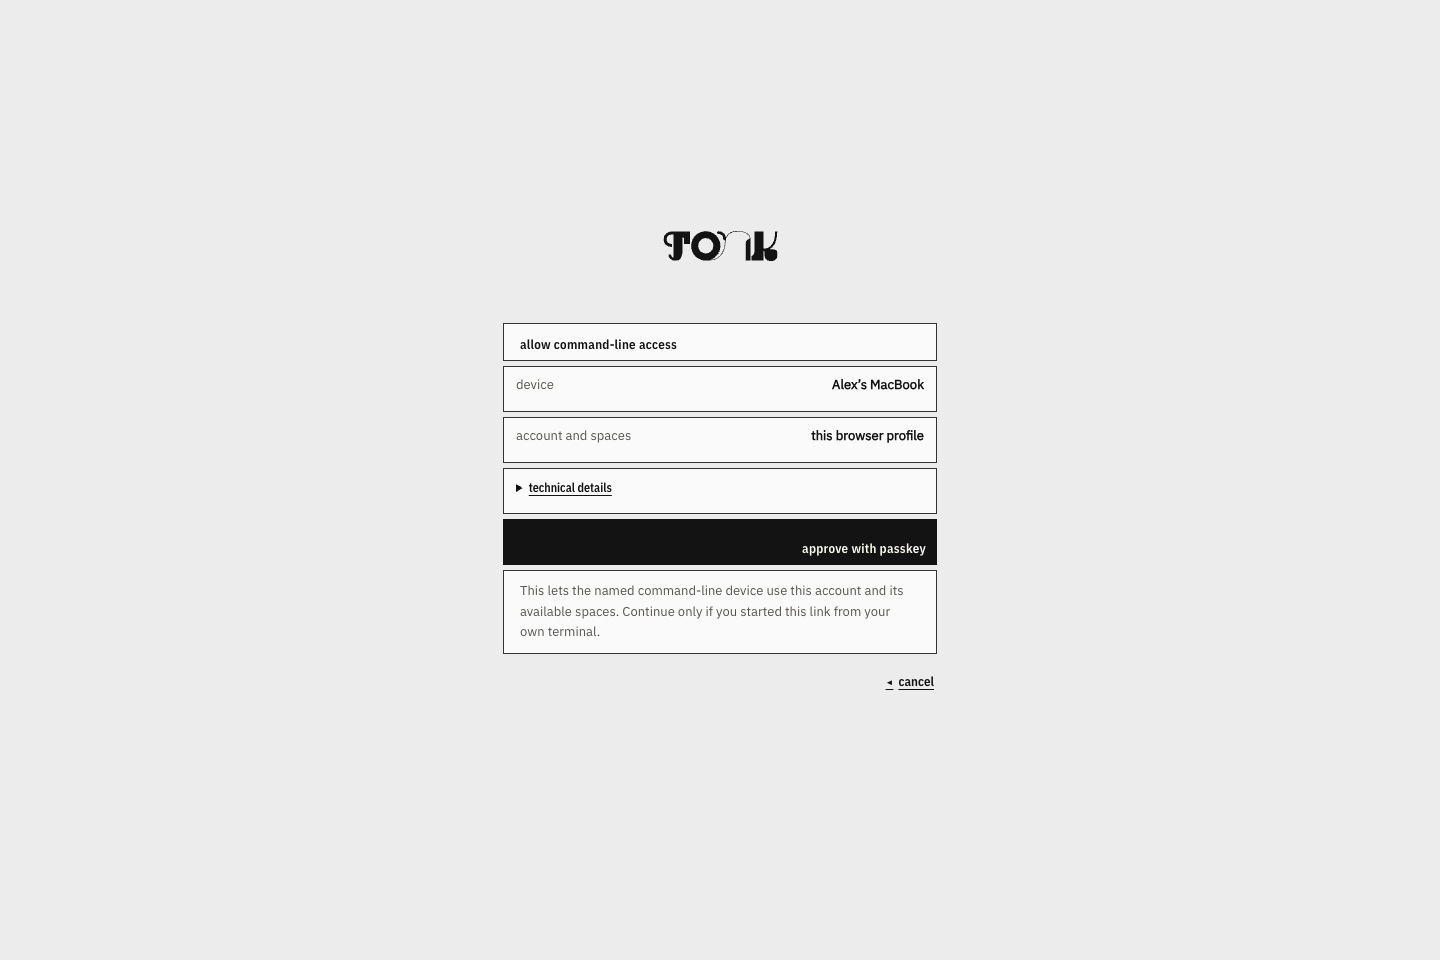
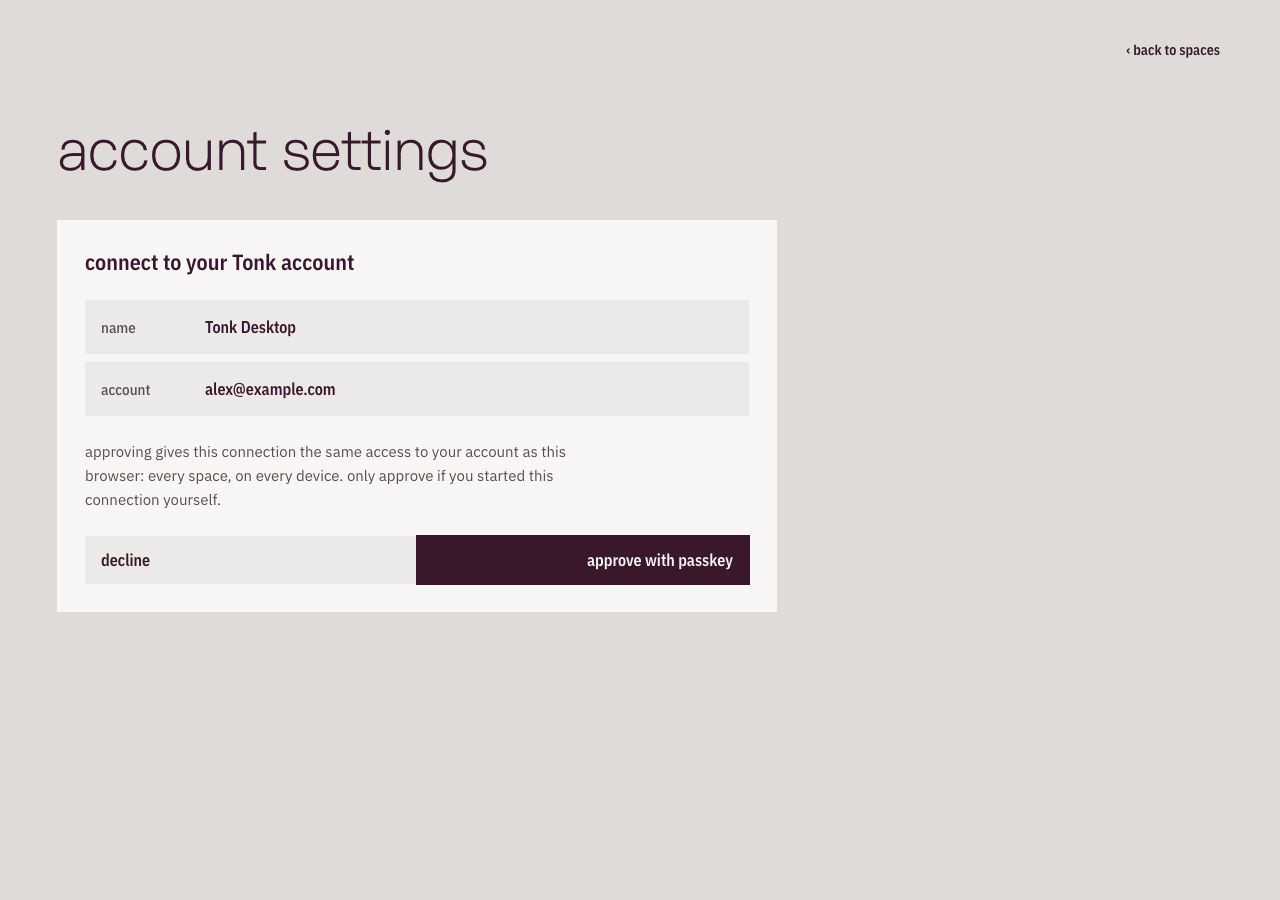
feat(ui): refresh Tonk connection approval (#1070)

diff --git a/rust/tonk-ui/styles.css b/rust/tonk-ui/styles.css
@@ -2205,29 +2205,61 @@ account-settings .link-foot .m-cancel { box-shadow: 0 0 0 1px var(--ring); }
 account-settings [data-ceremony-status] { color: var(--ink); }
 account-settings [data-ceremony-status][hidden] { display: none; }
 
-/* CLI approval follows the Hub's row stack rather than the settings sheet. */
+/* Device approval uses the account page's spacious card and inset facts.
+   Keep the shared ceremony status and custody seat outside the card: the
+   host passkey surface replaces this pane while a ceremony is open. */
 account-settings .s-body:has([data-link-approval]:not([hidden])) {
     min-height: 0; max-height: none; overflow: visible; padding: 0;
     background: none; border: 0; position: relative;
+    width: 100%; max-width: 720px;
 }
 account-settings [data-link-approval]:not([hidden]) {
-    display: flex; flex-direction: column; gap: 7px;
+    display: flex; flex-direction: column; gap: 24px;
+    padding: 28px; background: var(--card); color: var(--ink);
 }
-account-settings [data-link-approval] > :is(.sect, .srowd, .expl),
-account-settings .s-body:has([data-link-approval]:not([hidden])) > [data-ceremony-status]:not([hidden]) {
-    box-sizing: border-box; margin: 0; padding: 10px 16px;
-    min-height: 36px; max-width: none; background: var(--card);
-    border: 0; box-shadow: 0 0 0 1px var(--ring);
+account-settings .link-heading {
+    margin: 0; font: 600 22px/1.25 var(--cond); text-wrap: balance;
 }
-account-settings [data-link-approval] .srowd b {
-    min-width: 0; white-space: normal; overflow-wrap: anywhere; text-align: right;
+account-settings .link-details { display: grid; gap: 8px; margin: 0; }
+account-settings .link-details > div {
+    display: grid; grid-template-columns: 88px minmax(0, 1fr);
+    align-items: baseline; gap: 16px; padding: 16px;
+    background: var(--wash);
 }
-account-settings [data-link-approval] .link-foot { margin: 0; }
+account-settings .link-details dt { font: 500 15px/1.4 var(--cond); color: var(--soft); }
+account-settings .link-details dd {
+    min-width: 0; margin: 0; font: 600 16px/1.4 var(--cond);
+    overflow-wrap: anywhere; text-transform: none;
+}
+.hub-page account-settings [data-link-approval] .expl {
+    max-width: 60ch; margin: 0; font: 400 15px/1.6 var(--sans);
+    color: var(--soft); text-wrap: pretty;
+}
+account-settings [data-link-approval] .link-foot {
+    display: grid; grid-template-columns: 1fr 1fr; margin: 0;
+}
 account-settings [data-link-approval] .link-foot button {
-    font: 600 13px/1 var(--cond); letter-spacing: 0.02em;
+    min-width: 0; min-height: 48px; width: auto; padding: 14px 16px;
+    font: 600 16px/1.25 var(--cond); letter-spacing: 0;
+    white-space: normal; height: auto;
 }
-account-settings .s-body:has([data-link-approval]:not([hidden])) > [data-ceremony-status]:not([hidden]) {
-    margin-top: 7px;
+account-settings [data-link-approval] .m-cancel {
+    background: var(--wash); box-shadow: none; text-align: left; justify-content: flex-start;
+}
+account-settings [data-link-approval] .m-cancel:hover { background: var(--wash-2); }
+account-settings [data-link-approval] button:focus-visible {
+    outline: 2px solid var(--ink); outline-offset: -4px; box-shadow: none;
+}
+account-settings [data-link-approval] .m-go:focus-visible { outline-color: var(--on-ink); }
+.hub-page account-settings .s-body:has([data-link-approval]:not([hidden])) > [data-ceremony-status]:not([hidden]) {
+    box-sizing: border-box; max-width: none; margin: 16px 0 0; padding: 20px 28px;
+    background: var(--card); font: 400 15px/1.6 var(--sans);
+}
+@media (max-width: 600px) {
+    account-settings [data-link-approval]:not([hidden]) { padding: 22px 20px; gap: 20px; }
+    account-settings .link-details > div { grid-template-columns: 1fr; gap: 4px; }
+    account-settings [data-link-approval] .link-foot button { padding: 14px 12px; }
+    .hub-page account-settings .s-body:has([data-link-approval]:not([hidden])) > [data-ceremony-status]:not([hidden]) { padding: 20px; }
 }
 account-settings [data-custody-seat] { display: none; }
 account-settings[data-passkey-screen] [data-link-approval],

diff --git a/docs/storybook/app/data.js b/docs/storybook/app/data.js
@@ -1042,14 +1042,14 @@ window.STORYBOOK_DATA = {
         "ACCT-C06",
         "ACCT-C15"
       ],
-      "name": "CLI authorization handoff",
+      "name": "Tonk connection approval",
       "source_paths": [
         "rust/tonk-core/assets/library/profile.yaml",
         "rust/tonk-ui/styles.css",
         "rust/tonk-cli/src/account.rs"
       ],
       "status": "captured",
-      "summary": "The browser names the waiting CLI device, or the page another deployment is signing in, and requires explicit passkey approval or cancellation.",
+      "summary": "The browser shows the Tonk connection name and granting account email, explains full-account access, and offers decline or passkey approval. Device IDs and callback destinations stay internal.",
       "surface": "browser"
     },
     {

diff --git a/rust/tonk-display/src/registry.rs b/rust/tonk-display/src/registry.rs
@@ -2422,7 +2422,7 @@ mod tests {
             ("hash", ""),
         ]);
         let host = account_settings(
-            r#"<div class="pane" data-pane="account"></div><div class="pane" data-pane="link" hidden><b data-link-name></b><b data-link-account></b><b data-link-did></b><button type="button" data-link-decline>decline</button><button type="button" data-link-approve data-audience="" data-callback="" data-name="" data-expected-account="">approve</button></div><p data-ceremony-status hidden></p>"#,
+            r#"<div class="pane" data-pane="account"></div><div class="pane" data-pane="link" hidden><b data-link-name></b><b data-link-account>person@example.com</b><button type="button" data-link-decline>decline</button><button type="button" data-link-approve data-audience="" data-callback="" data-name="" data-expected-account="">approve</button></div><p data-ceremony-status hidden></p>"#,
         );
         settle_until(|| defined("account-settings")).await;
         settle_briefly().await;
@@ -2441,10 +2441,10 @@ mod tests {
             "and the account pane is not"
         );
         assert_eq!(text_of(&host, "[data-link-name]"), "e2e terminal");
-        assert_eq!(text_of(&host, "[data-link-did]"), "did:key:zTerminal");
         assert_eq!(
             text_of(&host, "[data-link-account]"),
-            "your signed-in account"
+            "person@example.com",
+            "refresh preserves the email rendered by the registered account view"
         );
         let approve = host
             .query_selector("[data-link-approve]")
@@ -2491,11 +2491,10 @@ mod tests {
     }
 
     /// A page on another deployment asks the way a terminal does, with an
-    /// https callback. The pane names that page, so approving is a
-    /// decision about where the grant goes, and declining answers the page
-    /// on its own callback.
+    /// https callback. The pane uses the shared Tonk connection wording
+    /// and request name; declining still answers the page on its own callback.
     #[dialog_common::test]
-    async fn it_names_the_page_a_web_request_would_sign_in() {
+    async fn it_describes_a_web_connection_and_declines_on_its_callback() {
         let navigations = record_bridge_calls("navigate");
         let callback = "https://tonk.host/settings/link?via=https%3A%2F%2Ftonk.test&request=r1";
         let search = format!(
@@ -2509,20 +2508,20 @@ mod tests {
             ("hash", ""),
         ]);
         let host = account_settings(
-            r#"<div class="pane" data-pane="account"></div><div class="pane" data-pane="link" hidden><b data-link-heading></b><b data-link-name></b><b data-link-return></b><b data-link-account></b><b data-link-did></b><p data-link-explanation></p><button type="button" data-link-decline>decline</button><button type="button" data-link-approve data-audience="" data-callback="" data-name="" data-expected-account="">approve</button></div><p data-ceremony-status hidden></p>"#,
+            r#"<div class="pane" data-pane="account"></div><div class="pane" data-pane="link" hidden><b data-link-heading></b><b data-link-name></b><b data-link-account>person@example.com</b><p data-link-explanation></p><button type="button" data-link-decline>decline</button><button type="button" data-link-approve data-audience="" data-callback="" data-name="" data-expected-account="">approve</button></div><p data-ceremony-status hidden></p>"#,
         );
         settle_until(|| defined("account-settings")).await;
         settle_briefly().await;
 
         assert_eq!(
             text_of(&host, "[data-link-heading]"),
-            "tonk.host is asking for access"
+            "connect to your Tonk account"
         );
-        assert_eq!(text_of(&host, "[data-link-return]"), "https://tonk.host");
-        assert!(
-            text_of(&host, "[data-link-explanation]")
-                .contains("decline if you did not ask tonk.host to sign in yourself"),
-            "the warning names the page, not a terminal"
+        assert_eq!(text_of(&host, "[data-link-name]"), "tonk.host");
+        assert_eq!(text_of(&host, "[data-link-account]"), "person@example.com");
+        assert_eq!(
+            text_of(&host, "[data-link-explanation]"),
+            "approving gives this connection the same access to your account as this browser: every space, on every device. only approve if you started this connection yourself."
         );
 
         let decline = host

diff --git a/rust/tonk-ui/src/account_flow.rs b/rust/tonk-ui/src/account_flow.rs
@@ -9239,13 +9239,7 @@ pub(crate) mod tests {
         goto(&driver, url.as_str()).await?;
         enter_hub(&driver).await?;
         wait_for_displayed(&driver, "account-settings [data-pane=\"link\"]").await?;
-        assert_eq!(
-            element(&driver, "[data-link-account]")
-                .await?
-                .text()
-                .await?,
-            expected
-        );
+        wait_for_text(&driver, "[data-link-account]", EMAIL).await?;
         click(&driver, "[data-link-approve]").await?;
         enter_hub(&driver).await?;
         wait_for_text_containing(
@@ -9291,19 +9285,24 @@ pub(crate) mod tests {
             .append_pair("expectedAccount", &expected);
         goto(&driver, url.as_str()).await?;
 
-        // The settings page names the device that is waiting, so the
-        // user knows what they are approving.
+        // Show the granting account's email; protocol identifiers stay
+        // on the approval control rather than in the visible details.
         enter_hub(&driver).await?;
         wait_for_displayed(&driver, "account-settings [data-pane=\"link\"]").await?;
-        let shown = element(&driver, "[data-link-did]").await?.text().await?;
-        assert_eq!(shown, audience, "the page must name the waiting device");
-        assert_eq!(
-            element(&driver, "[data-link-account]")
+        assert!(
+            driver
+                .find_all(By::Css("[data-link-did]"))
                 .await?
-                .text()
-                .await?,
-            expected
+                .is_empty()
         );
+        assert_eq!(
+            element(&driver, "[data-link-approve]")
+                .await?
+                .attr("data-audience")
+                .await?,
+            Some(audience.to_owned())
+        );
+        wait_for_text(&driver, "[data-link-account]", EMAIL).await?;
 
         // The passkey is asked for on the approving click itself, so the
         // watch on what it allows goes in before that click.
@@ -9475,12 +9474,10 @@ pub(crate) mod tests {
         field.send_keys(home).await?;
         click(driver, "#tonk-register #tonk-register-action").await?;
 
-        // On the deployment holding the account, the approval names the
-        // page the grant would go to.
+        // The deployment holding the account presents the connection approval.
         await_url_containing(driver, &format!("{home}/settings/link?")).await?;
         enter_hub(driver).await?;
         wait_for_displayed(driver, "account-settings [data-pane=\"link\"]").await?;
-        wait_for_text(driver, "[data-link-return]", &here_origin).await?;
         // One step: the click asks for the passkey, with no screen between.
         click(driver, "[data-link-approve]").await?;
 

diff --git a/plan/passkey-link-ui-refresh.md b/plan/passkey-link-ui-refresh.md
@@ -1,0 +1,35 @@
+# Passkey link UI refresh
+
+Implemented 2026-10-08, based on the supplied screenshot and the current FABB
+account panels in the adjacent gooey repository.
+
+The approval screen uses a spacious card, inset definition-list details, a
+full-width split action row, 48px controls, and narrow-screen stacking. It names
+a Tonk connection rather than a terminal. The only details shown are connection
+name and registered account email; the email uses the same reactive account
+model as settings. Device DIDs and callback destinations remain internal.
+Authorization data, callback validation, decline behavior, and custody overlay
+handling are preserved. Existing handoff tests reflect the new visible contract.
+
+Validation:
+
+- Desktop light and mobile dark source-fixture screenshots reviewed, with a
+  sample email. Final screenshots show only name and account.
+- Earlier 320px fixture checks covered wrapping, touch targets, keyboard focus,
+  and ceremony pane/status replacement and restoration.
+- Formatting and diff checks passed. Focused handoff tests compiled with Apple
+  Clang and SDK after ambient GCC failed in aws-lc-sys.
+- Browser integration did not execute: the sandbox initially blocked loopback;
+  the unrestricted retry reached a cold Nix test-server build, which was stopped.
+  Live email resolution and actual passkey handoff remain unverified.
+
+Storybook WEB-10 documents the final screen and its evidence boundary.
+
+CI follow-up: web debug failed in the registry test that still expected the old
+host-specific heading. Updated that test and the neighboring loopback test to
+use shared connection wording and preserve the email supplied by the account
+view, while retaining authority-data and decline-callback assertions. A focused
+Node execution of the actual profile methods passed for loopback and HTTPS
+requests; formatting and diff checks passed. Full Wasm test execution remains
+for CI. The other test matrix legs were cancelled by fail-fast, not independent
+failures. The unrelated macOS CLI cache-download failure passed on retry.

diff --git a/docs/storybook/accounts/browser-cli-handoff.md b/docs/storybook/accounts/browser-cli-handoff.md
@@ -1,5 +1,20 @@
 # The browser/CLI account handoff
 
+## Connection approval screen (WEB-10)
+
+The shared `/settings/link` approval screen supports Tonk desktop, CLI, and MCP
+connections. It shows the connection name and the granting account's registered
+email, with an explicit full-account access warning and decline / approve with
+passkey actions. Device DIDs and callback destinations are not displayed; their
+validation and delivery behavior is unchanged. Details stack on narrow screens.
+
+The refreshed WEB-10 capture is a production-source fixture with sample account
+data, taken from the changes based on `85c2a1599` on 2026-10-08. Desktop light and
+mobile dark previews were inspected. The updated handoff tests compiled; live
+email resolution and passkey delivery were not exercised because the fresh Nix
+test-server build was stopped before browser execution. These appearance checks
+do not mark the handoff journey verified.
+
 ## Current CLI access workflows
 
 The browser exposes two separate actions. **Invite someone** mints an ordinary
